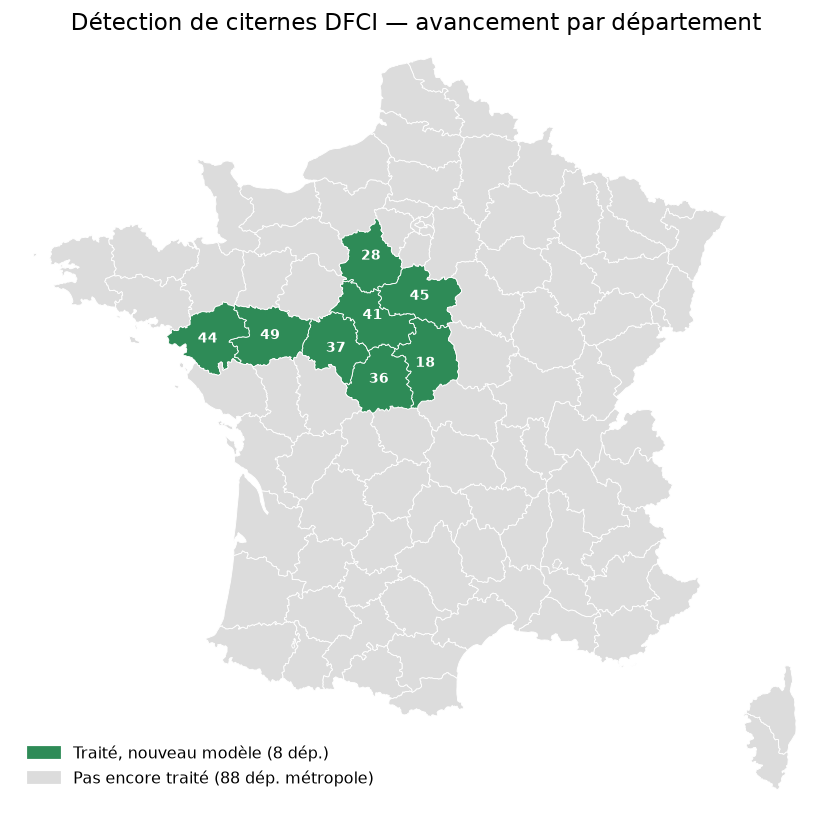
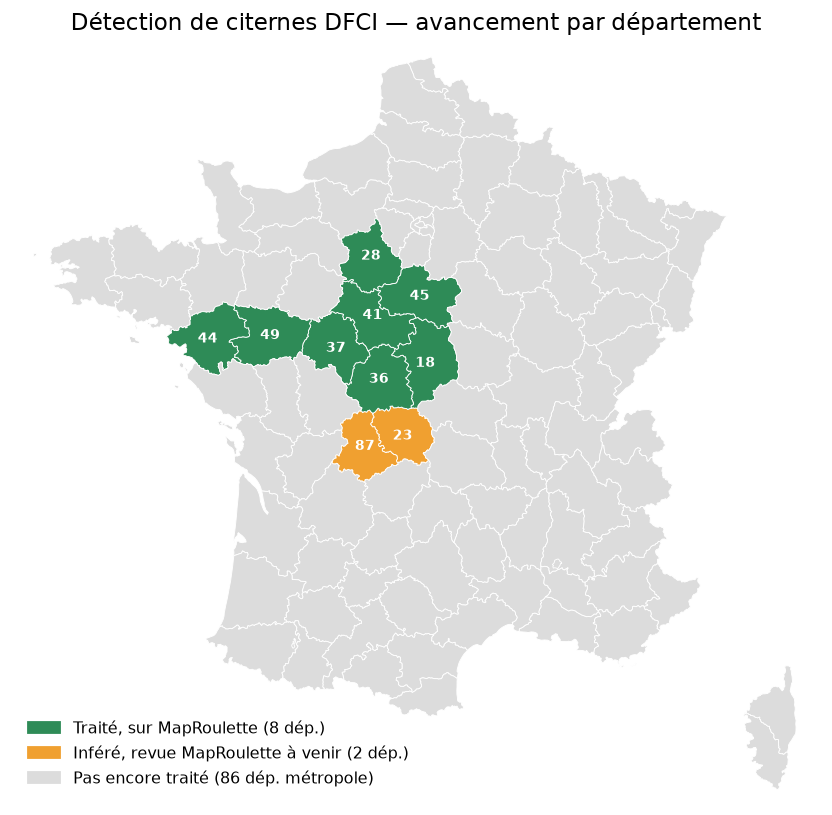
docs: carte d'avancement — départements inférés en attente de revue MapRoulette (23, 87)

Changed region(s): [[0.0312, 0.8589, 0.5, 0.9509], [0.4062, 0.4908, 0.5312, 0.5828]]

diff --git a/scripts/carte_avancement.py b/scripts/carte_avancement.py
@@ -1,8 +1,10 @@
 """Carte d'avancement de la détection par département (image pour le README).
 
-Colore les départements déjà traités (et repassés avec le modèle actuel) et
-laisse les autres en gris. Les départements traités sont lus dans
-`inference_rattrapage/recap_rattrapage.txt` ; les contours sont téléchargés une
+Colore en vert les départements traités (sur MapRoulette, repassés avec le modèle
+actuel), en orange ceux dont l'inférence est terminée mais pas encore publiée, et
+laisse les autres en gris. Les traités sont lus dans
+`inference_rattrapage/recap_rattrapage.txt`, les inférés dans les dossiers
+`inference_<insee>_2026` / `_standard` ; les contours sont téléchargés une
 fois (GeoJSON simplifié) puis mis en cache dans `data/departements.geojson`.
 
 Usage:
@@ -29,7 +31,22 @@ UA = "https://github.com/atchisson/detect-dfci"
 # Ligne du récap : "  18 Cher   seuil 0.35 : 85 retenue(s) sur 136 candidate(s)"
 RECAP = re.compile(r"^\s*(\w+)\s+.+?seuil\s+([\d.]+)\s*:\s*(\d+) retenue")
 COULEUR_TRAITE = "#2e8b57"
+COULEUR_INFERE = "#f0a030"
 COULEUR_RESTE = "#dcdcdc"
+INFERENCE_DIR = re.compile(r"^inference_(\w+)_(2026|standard)$")
+
+
+def lire_inferes(racine: Path, publies: set[str]) -> set[str]:
+    """Départements dont toutes les passes `inference_<insee>_*` sont terminées
+    (détections écrites, plus de point de reprise) et qui ne sont pas encore
+    sur MapRoulette."""
+    passes: dict[str, list[bool]] = {}
+    for d in racine.iterdir():
+        m = INFERENCE_DIR.match(d.name)
+        if m and d.is_dir():
+            fini = (d / "detected_only.geojson").exists() and not (d / "checkpoint.json").exists()
+            passes.setdefault(m.group(1), []).append(fini)
+    return {insee for insee, p in passes.items() if all(p)} - publies
 
 
 def charger_contours(cache: Path) -> dict:
@@ -57,16 +74,17 @@ def anneaux(geom: dict):
         yield poly[0]
 
 
-def dessiner(contours: dict, taches: dict[str, int], out: Path) -> None:
+def dessiner(contours: dict, taches: dict[str, int], inferes: set[str], out: Path) -> None:
     fig, ax = plt.subplots(figsize=(8, 8))
     for f in contours["features"]:
         code = f["properties"]["code"]
         traite = code in taches
+        couleur = (COULEUR_TRAITE if traite else COULEUR_INFERE if code in inferes
+                   else COULEUR_RESTE)
         for anneau in anneaux(f["geometry"]):
-            ax.add_patch(MplPolygon(anneau, closed=True,
-                                    facecolor=COULEUR_TRAITE if traite else COULEUR_RESTE,
+            ax.add_patch(MplPolygon(anneau, closed=True, facecolor=couleur,
                                     edgecolor="white", linewidth=0.5))
-        if traite:
+        if traite or code in inferes:
             xs = [x for a in anneaux(f["geometry"]) for x, _ in a]
             ys = [y for a in anneaux(f["geometry"]) for _, y in a]
             ax.text((min(xs) + max(xs)) / 2, (min(ys) + max(ys)) / 2,
@@ -80,8 +98,11 @@ def dessiner(contours: dict, taches: dict[str, int], out: Path) -> None:
     ax.set_title("Détection de citernes DFCI — avancement par département", fontsize=13)
     ax.legend(handles=[
         Patch(color=COULEUR_TRAITE,
-              label=f"Traité, nouveau modèle ({len(taches)} dép.)"),
-        Patch(color=COULEUR_RESTE, label=f"Pas encore traité ({96 - len(taches)} dép. métropole)"),
+              label=f"Traité, sur MapRoulette ({len(taches)} dép.)"),
+        Patch(color=COULEUR_INFERE,
+              label=f"Inféré, revue MapRoulette à venir ({len(inferes)} dép.)"),
+        Patch(color=COULEUR_RESTE,
+              label=f"Pas encore traité ({96 - len(taches) - len(inferes)} dép. métropole)"),
     ], loc="lower left", frameon=False, fontsize=9)
     fig.savefig(out, dpi=130, bbox_inches="tight", facecolor="white")
 
@@ -90,6 +111,7 @@ def main() -> None:
     ap = argparse.ArgumentParser(description=__doc__)
     ap.add_argument("--recap", default="inference_rattrapage/recap_rattrapage.txt")
     ap.add_argument("--contours", default="data/departements.geojson")
+    ap.add_argument("--racine", default=".", help="dossier contenant les inference_<insee>_*")
     ap.add_argument("--out", default="docs/avancement.png")
     a = ap.parse_args()
     taches = lire_recap(Path(a.recap))
@@ -97,8 +119,9 @@ def main() -> None:
         raise SystemExit(f"Aucun département lu dans {a.recap}")
     out = Path(a.out)
     out.parent.mkdir(parents=True, exist_ok=True)
-    dessiner(charger_contours(Path(a.contours)), taches, out)
-    print(f"{out} : {len(taches)} départements")
+    inferes = lire_inferes(Path(a.racine), set(taches))
+    dessiner(charger_contours(Path(a.contours)), taches, inferes, out)
+    print(f"{out} : {len(taches)} sur MapRoulette, {len(inferes)} inféré(s) : {sorted(inferes)}")
 
 
 if __name__ == "__main__":

diff --git a/README.md b/README.md
@@ -11,8 +11,9 @@ Les candidats détectés sont revus dans le
 
 ![Avancement de la détection par département](docs/avancement.png)
 
-8 départements sur 96 traités et repassés avec le modèle actuel (18, 28, 36, 37, 41, 44, 45, 49).
-Pour régénérer l'image après un nouveau rattrapage :
+8 départements sur 96 traités et repassés avec le modèle actuel (18, 28, 36, 37, 41, 44, 45, 49) ;
+2 autres (23, 87) sont inférés en double détection (ortho 2026 + ortho habituelle), leur revue
+MapRoulette est à venir. Pour régénérer l'image :
 
     python scripts/carte_avancement.py --out docs/avancement.png
 
